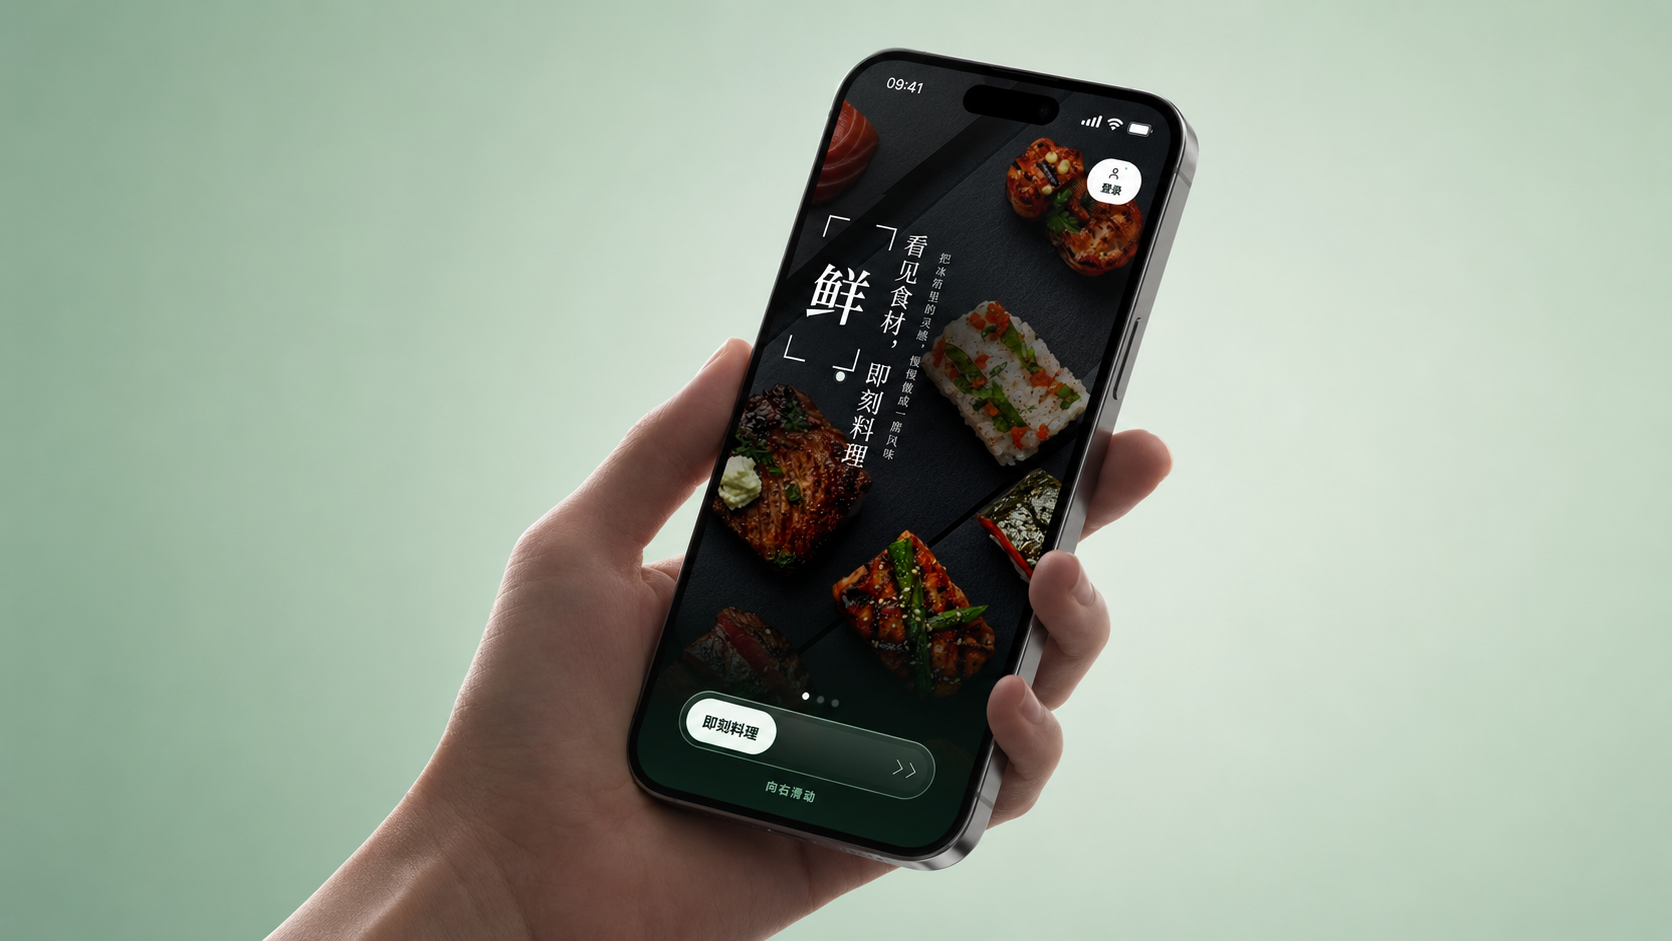
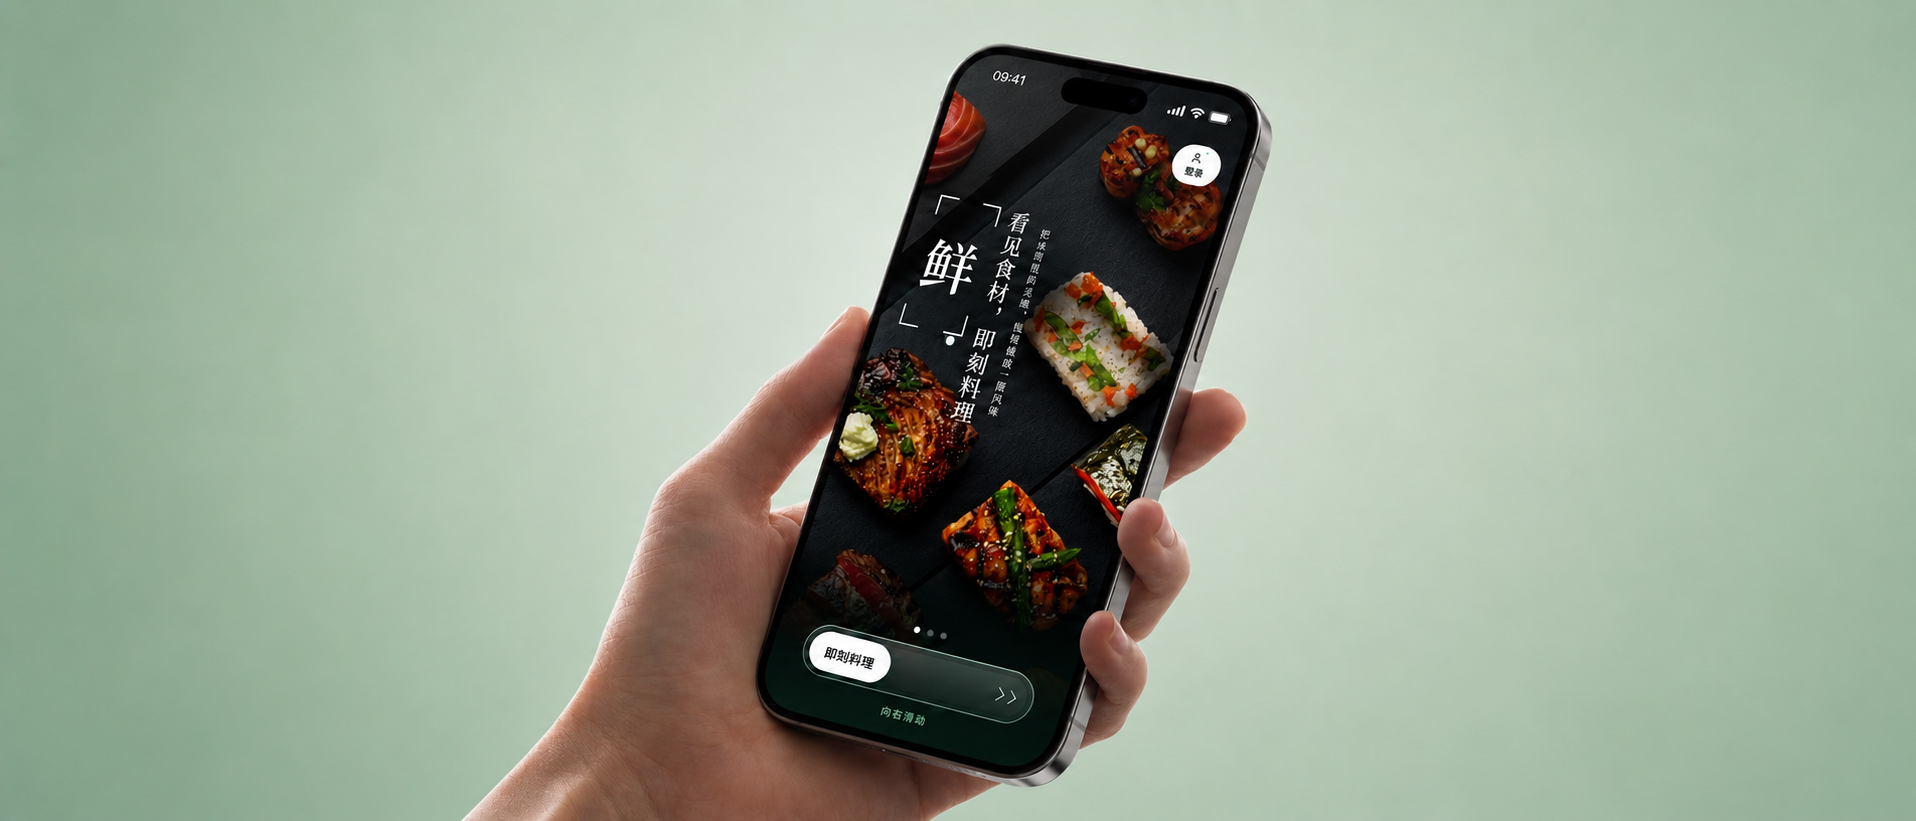
fix: update Pai Li Shi detail hero image

diff --git a/src/styles.css b/src/styles.css
@@ -1586,6 +1586,30 @@ img {
   object-fit: contain;
 }
 
+.detail-media-grid.detail-media-project-palifood figure.detail-media-palifood-hero,
+.detail-media-grid.detail-media-project-palifood figure.detail-media-palifood-hero:first-child {
+  width: 100vw;
+  height: auto;
+  aspect-ratio: 1916 / 821;
+  margin-inline: 0;
+  padding: 0;
+  background: #d7e2d6;
+  perspective: none;
+}
+
+.detail-media-grid.detail-media-project-palifood figure.detail-media-palifood-hero img {
+  width: 100%;
+  height: 100%;
+  max-width: none;
+  max-height: none;
+  object-fit: contain;
+  object-position: center;
+  transform: none;
+  transform-origin: center;
+  backface-visibility: visible;
+  will-change: auto;
+}
+
 .detail-media-grid figure.detail-media-video-frame {
   display: flex;
   height: 100svh;
@@ -1711,6 +1735,10 @@ img {
   height: auto;
   transform: perspective(1600px) rotateX(var(--detail-tilt-x, 10deg)) scale(var(--detail-tilt-scale, 1.04));
   box-shadow: none;
+}
+
+.detail-media-grid.detail-media-project-palifood figure.detail-media-palifood-hero figcaption {
+  display: none;
 }
 
 .detail-media-pending {
@@ -3126,17 +3154,19 @@ img {
     padding-top: 18px;
   }
 
-  .detail-media-grid.detail-media-project-palifood figure.detail-media-source-aspect:first-child {
-    height: 100svh;
-    aspect-ratio: auto;
+  .detail-media-grid.detail-media-project-palifood figure.detail-media-palifood-hero,
+  .detail-media-grid.detail-media-project-palifood figure.detail-media-palifood-hero:first-child {
+    width: 100vw;
+    height: auto;
+    aspect-ratio: 1916 / 821;
   }
 
-  .detail-media-grid.detail-media-project-palifood figure.detail-media-source-aspect:first-child img {
-    width: max(150svh, 360vw);
-    height: auto;
+  .detail-media-grid.detail-media-project-palifood figure.detail-media-palifood-hero img {
+    width: 100%;
+    height: 100%;
     max-height: none;
     object-fit: contain;
-    transform: translate3d(0, 0, 0) scale(1);
+    transform: none;
   }
 
   .detail-media-digital figure:first-child img {

diff --git a/src/main.jsx b/src/main.jsx
@@ -4299,7 +4299,7 @@ function ProjectDetail({ lang, project, onBack, onOpenProject, motionEnabled }) 
       return 'detail-media-product-wide-frame';
     }
     if (src.includes('palifood-handheld-fresh.png')) {
-      return 'detail-media-source-aspect';
+      return 'detail-media-palifood-hero';
     }
     if (
       src.includes('ufei-precision-cabinet-render-crop.png') ||
@@ -4325,7 +4325,7 @@ function ProjectDetail({ lang, project, onBack, onOpenProject, motionEnabled }) 
     const root = mediaGridRef.current;
     const firstFigure = root?.querySelector('figure:first-child');
     const firstImage = firstFigure?.querySelector('img');
-    if (!firstFigure || !firstImage || !root.matches('.detail-media-digital')) {
+    if (!firstFigure || !firstImage || !root.matches('.detail-media-digital') || project.id === 'palifood') {
       return undefined;
     }
 
